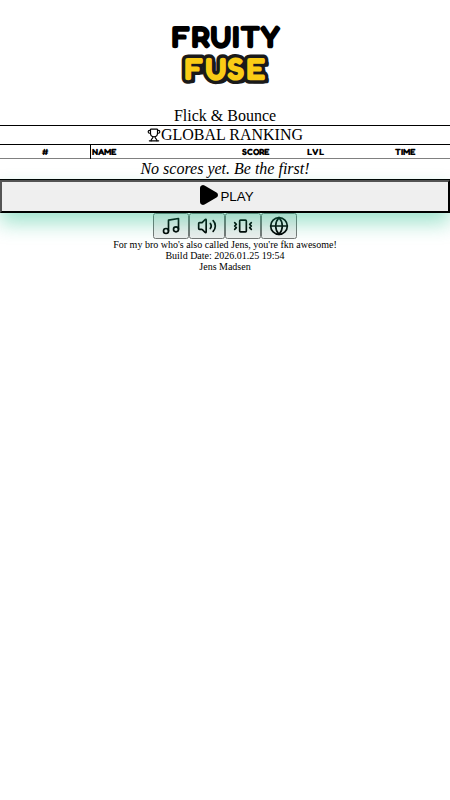
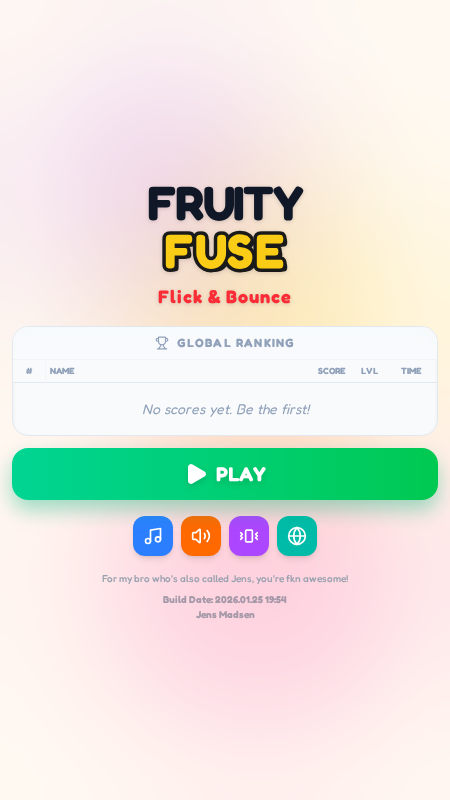
fix: restore index.css and append new animations
- Restored `index.css` to its original state to fix layout breakage caused by accidental overwrite.
- Appended `float-right-linear` and `pop` animations to `index.css` to support new cloud and UI features.
- Previous changes (App.tsx container styles, CloudsOverlay, JuiceOverlay) remain intact.

diff --git a/index.css b/index.css
@@ -1,82 +1,324 @@
-@tailwind base;
-@tailwind components;
-@tailwind utilities;
+@import "tailwindcss";
 
-@font-face {
-  font-family: 'Fredoka';
-  src: url('https://fonts.googleapis.com/css2?family=Fredoka:wght@300..700&display=swap');
+/* Custom base styles (these often go in @layer base for overrides or specific non-utility styles) */
+@layer base {
+
+  body,
+  html {
+    /* Use standard CSS for properties not directly covered by @tailwind base preflight,
+       or for custom values that aren't Tailwind utilities.
+       Tailwind's preflight already sets margin/padding to 0.
+    */
+    height: 100svh;
+    /* Use svh to account for mobile toolbars */
+    overflow: hidden;
+    touch-action: none;
+    user-select: none;
+    -webkit-user-select: none;
+    background: #FFF8E1;
+    font-family: 'Fredoka', 'Segoe UI', sans-serif;
+  }
+
+  #root {
+    /* These can generally be applied as Tailwind classes directly to the #root div in index.html,
+       but can also be defined here if they are truly global defaults.
+    */
+    width: 100%;
+    height: 100svh;
+    display: flex;
+    justify-content: center;
+    align-items: center;
+  }
+
+  canvas {
+    touch-action: none;
+  }
 }
 
-body {
-  margin: 0;
-  font-family: 'Fredoka', sans-serif;
-  -webkit-font-smoothing: antialiased;
-  -moz-osx-font-smoothing: grayscale;
-  overscroll-behavior: none;
-  touch-action: none;
-}
+/* Custom Animations (these should be in @layer utilities as they define utility-like classes) */
+@layer utilities {
+  @keyframes float {
+    0% {
+      transform: translateY(0px);
+    }
 
-/* Animations */
-@keyframes float {
-  0% { transform: translate(0px, 0px) scale(1); }
-  33% { transform: translate(30px, -50px) scale(1.1); }
-  66% { transform: translate(-20px, 20px) scale(0.9); }
-  100% { transform: translate(0px, 0px) scale(1); }
-}
+    50% {
+      transform: translateY(-10px);
+    }
 
-@keyframes pop {
-  0% { transform: scale(0.8); opacity: 0; }
-  100% { transform: scale(1); opacity: 1; }
-}
+    100% {
+      transform: translateY(0px);
+    }
+  }
 
-@keyframes fade-in-up {
-  0% { opacity: 0; transform: translateY(10px); }
-  100% { opacity: 1; transform: translateY(0); }
-}
+  .animate-float {
+    animation: float 3s ease-in-out infinite;
+  }
 
-@keyframes wave {
-  0% { background-position-x: 0px; }
-  100% { background-position-x: 100px; }
-}
+  @keyframes pulse-danger {
+    0% {
+      opacity: 0.5;
+    }
 
-@keyframes float-right-linear {
-  0% { transform: translateX(-100%); }
-  100% { transform: translateX(600px); /* 500px container + buffer */ }
-}
+    50% {
+      opacity: 1;
+    }
 
-.animate-float {
-  animation: float infinite ease-in-out;
-}
+    100% {
+      opacity: 0.5;
+    }
+  }
 
-.animate-pop {
-  animation: pop 0.3s cubic-bezier(0.175, 0.885, 0.32, 1.275) forwards;
-}
+  .animate-pulse-danger {
+    animation: pulse-danger 1s infinite;
+  }
 
-.animate-fade-in-up {
-  animation: fade-in-up 0.5s ease-out forwards;
-}
+  @keyframes wave-scroll {
+    0% {
+      background-position-x: 0px;
+    }
 
-.animate-wave {
-  animation: wave 2s linear infinite;
-}
+    100% {
+      background-position-x: 100px;
+    }
+  }
 
-.animate-float-right-fast {
-  animation: float-right-linear linear infinite;
-}
+  .animate-wave {
+    animation: wave-scroll 2s linear infinite;
+  }
 
-.animate-float-right-medium {
-  animation: float-right-linear linear infinite;
-}
+  @keyframes bg-scroll {
+    0% {
+      background-position: 0 0;
+    }
 
-.animate-float-right-slow {
-  animation: float-right-linear linear infinite;
-}
+    100% {
+      background-position: -500px 0;
+    }
+  }
 
-/* Text Stroke Utility */
-.text-stroke {
-  -webkit-text-stroke: 1px rgba(0,0,0,0.1);
-}
+  .animate-bg-scroll {
+    animation: bg-scroll 60s linear infinite;
+  }
 
-.text-stroke-2 {
-  -webkit-text-stroke: 2px white;
+  @keyframes mask-scroll {
+    0% {
+      mask-position: 0 0;
+      -webkit-mask-position: 0 0;
+    }
+
+    100% {
+      mask-position: -200px 200px;
+      -webkit-mask-position: -200px 200px;
+    }
+  }
+
+  .animate-mask-scroll {
+    animation: mask-scroll 30s linear infinite;
+  }
+
+  /* NEW TEXT ANIMATIONS */
+  @keyframes pop-perfect {
+    0% {
+      transform: scale(0.3);
+      opacity: 0;
+    }
+
+    40% {
+      transform: scale(1.1);
+      opacity: 1;
+    }
+
+    60% {
+      transform: scale(1.0);
+      opacity: 1;
+    }
+
+    90% {
+      opacity: 1;
+    }
+
+    100% {
+      transform: scale(1.0);
+      opacity: 0.3;
+    }
+  }
+
+  .animate-pop-perfect {
+    animation: pop-perfect 3s cubic-bezier(0.34, 1.56, 0.64, 1) forwards;
+    will-change: transform, opacity;
+    transform: translateZ(0);
+  }
+
+  @keyframes pop-enter {
+    0% {
+      transform: scale(0.3);
+      opacity: 0;
+    }
+
+    60% {
+      transform: scale(1.1);
+      opacity: 1;
+    }
+
+    100% {
+      transform: scale(1.0);
+      opacity: 0.85;
+    }
+  }
+
+  .animate-pop-enter {
+    animation: pop-enter 0.5s cubic-bezier(0.34, 1.56, 0.64, 1) forwards;
+    will-change: transform, opacity;
+    transform: translateZ(0);
+  }
+
+  .animate-bounce-custom {
+    animation: bounce-custom 0.5s cubic-bezier(0.36, 0, 0.66, -0.56) forwards;
+  }
+
+  @keyframes float-fade {
+    0% {
+      opacity: 0;
+      transform: translate(-50%, -50%) scale(0.5) translateY(10px);
+    }
+
+    20% {
+      opacity: 1;
+      transform: translate(-50%, -50%) scale(1.2) translateY(0px);
+    }
+
+    40% {
+      transform: translate(-50%, -50%) scale(1.0);
+    }
+
+    100% {
+      opacity: 0;
+      transform: translate(-50%, -50%) scale(1.0) translateY(-60px);
+    }
+  }
+
+  .animate-float-fade {
+    animation: float-fade 0.8s ease-out forwards;
+    will-change: transform, opacity;
+    transform: translateZ(0);
+  }
+
+  @keyframes pop-in-settle {
+    0% {
+      transform: scale(0);
+      opacity: 0;
+    }
+
+    20% {
+      transform: scale(1.2);
+      opacity: 1;
+    }
+
+    30% {
+      transform: scale(1);
+      opacity: 1;
+    }
+
+    60% {
+      opacity: 1;
+    }
+
+    100% {
+      transform: scale(1);
+      opacity: 0.3;
+      /* Settle to semi-transparent */
+    }
+  }
+
+  .animate-pop-settle {
+    animation: pop-in-settle 1.2s cubic-bezier(0.175, 0.885, 0.32, 1.275) forwards;
+  }
+
+  @keyframes bob {
+
+    0%,
+    100% {
+      transform: translateY(0);
+    }
+
+    50% {
+      transform: translateY(-8px);
+    }
+  }
+
+  .animate-bob {
+    animation: bob 2s ease-in-out infinite;
+    will-change: transform;
+    transform: translateZ(0);
+  }
+
+  @keyframes pop-in {
+    0% {
+      transform: scale(0);
+      opacity: 0;
+    }
+
+    60% {
+      transform: scale(1.2);
+      opacity: 1;
+    }
+
+    100% {
+      transform: scale(1);
+      opacity: 1;
+    }
+  }
+
+  .animate-pop-in {
+    animation: pop-in 0.4s cubic-bezier(0.175, 0.885, 0.32, 1.275) forwards;
+    will-change: transform, opacity;
+    transform: translateZ(0);
+  }
+
+  @keyframes breathe {
+
+    0%,
+    100% {
+      transform: scale(1);
+    }
+
+    50% {
+      transform: scale(1.2);
+    }
+  }
+
+  .animate-breathe {
+    animation: breathe 1.5s ease-in-out infinite;
+    will-change: transform;
+    transform: translateZ(0);
+  }
+
+  /* NEW ADDITIONS FOR CLOUDS */
+  @keyframes float-right-linear {
+    0% { transform: translateX(-100%); }
+    100% { transform: translateX(600px); }
+  }
+
+  .animate-float-right-fast {
+    animation: float-right-linear linear infinite;
+  }
+
+  .animate-float-right-medium {
+    animation: float-right-linear linear infinite;
+  }
+
+  .animate-float-right-slow {
+    animation: float-right-linear linear infinite;
+  }
+
+  /* Ensure animate-pop exists */
+  @keyframes pop {
+    0% { transform: scale(0.8); opacity: 0; }
+    100% { transform: scale(1); opacity: 1; }
+  }
+
+  .animate-pop {
+    animation: pop 0.3s cubic-bezier(0.175, 0.885, 0.32, 1.275) forwards;
+  }
 }
